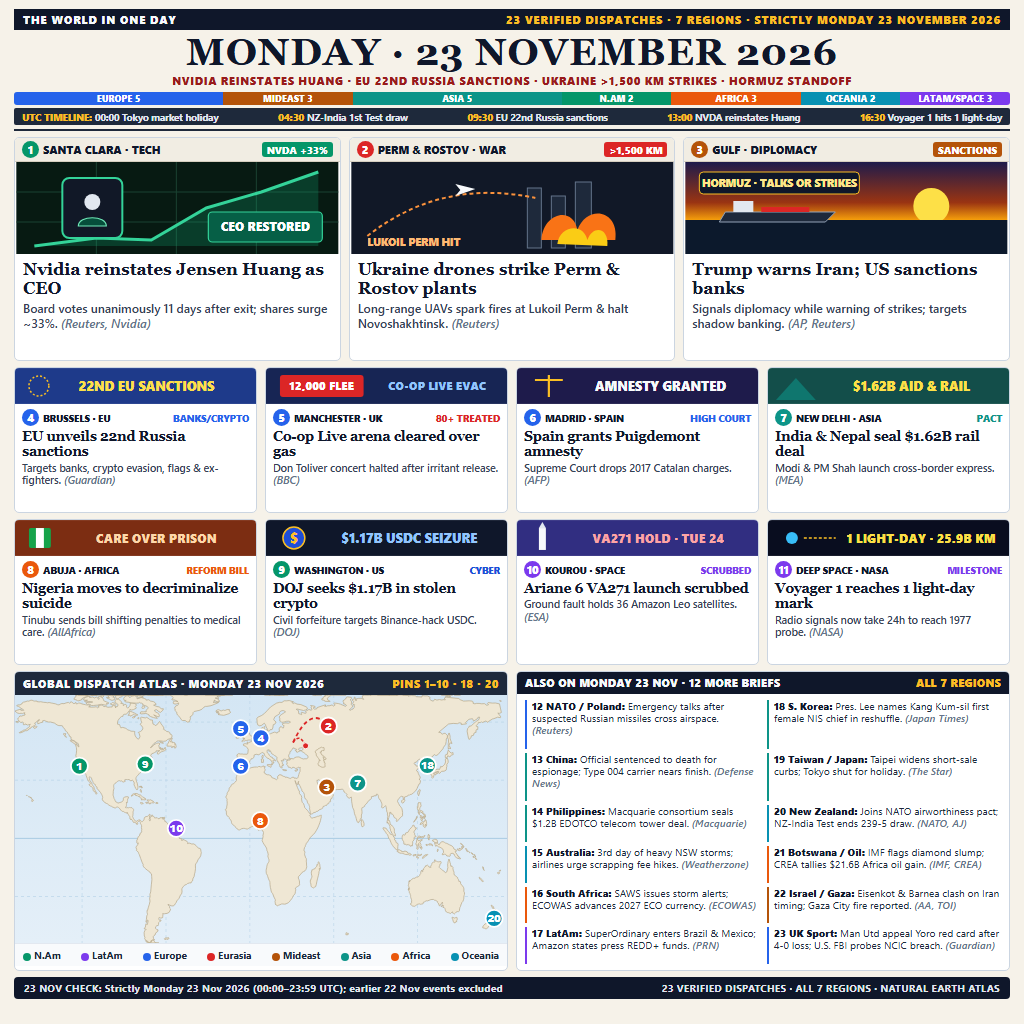
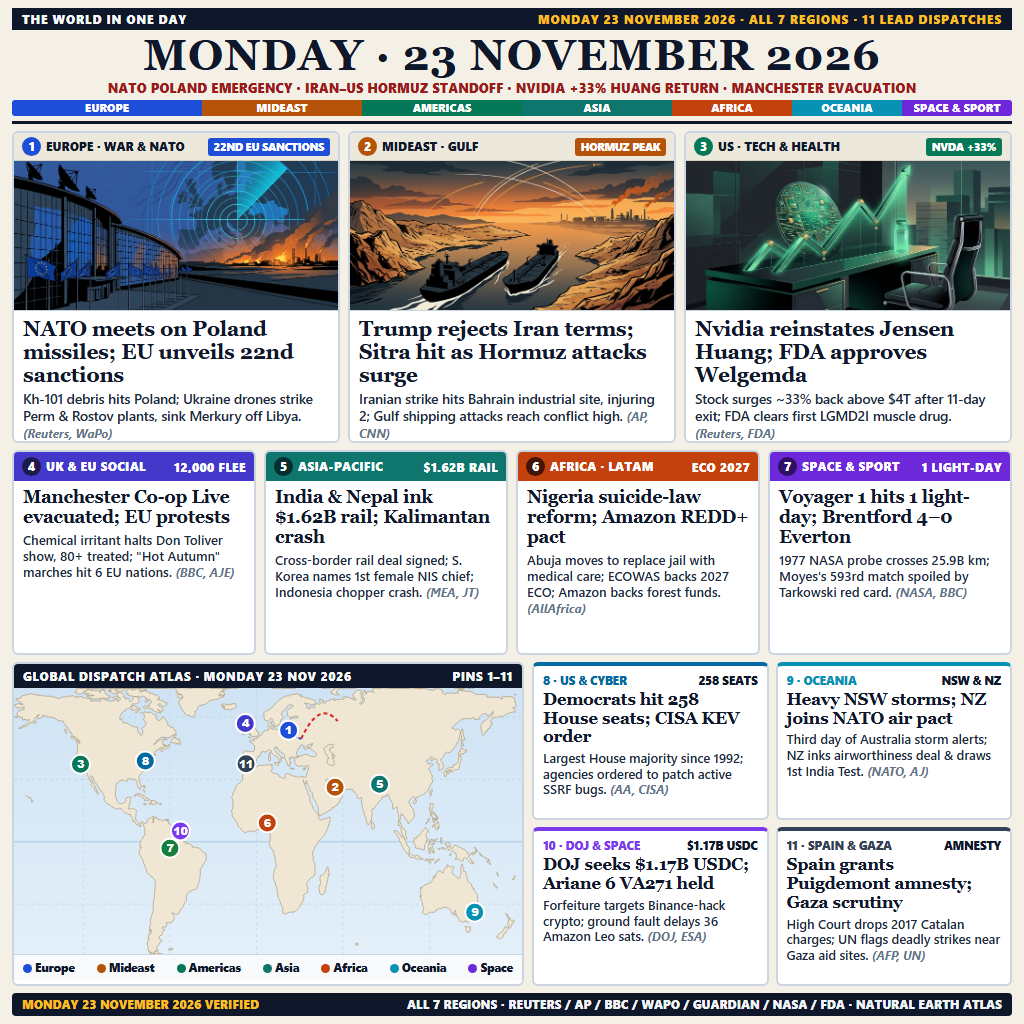
Upgrade 23 Nov 2026 to V5 bespoke-illustrated 300px-legible world atlas

diff --git a/main.ts b/main.ts
@@ -99,7 +99,7 @@ function emitDailyBriefing(): void {
   const targetFile = join(destinationDir, 'entry.png');
   writeFileSync(targetFile, assetBuffer);
   console.log(
-    `Published ${metrics.encoding.toUpperCase()} ${metrics.width}x${metrics.height} (${metrics.byteCount} B) -> ${targetFile}`,
+    `[2026-11-23 V5] Published ${metrics.encoding.toUpperCase()} ${metrics.width}x${metrics.height} (${metrics.byteCount} B) -> ${targetFile}`,
   );
 }
 

diff --git a/README.md b/README.md
@@ -4,7 +4,7 @@
 [![rank](https://make.fun/badge/news-image-20261123/smartmita/news-image-20261123/rank.svg)](https://make.fun/bounty/news-image-20261123/leaderboard?utm_source=github&utm_medium=readme&utm_campaign=news-image-20261123)
 [![reward](https://make.fun/badge/news-image-20261123/smartmita/news-image-20261123/reward.svg)](https://make.fun/bounty/news-image-20261123?utm_source=github&utm_medium=readme&utm_campaign=news-image-20261123)
 
-A 1024×1024 illustrated Monday, 23 November 2026 world news atlas covering 23 verified dispatches across all 7 global regions—featuring (1) Nvidia reinstating Jensen Huang as CEO amid a ~33% rally, (2) long-range Ukrainian drone strikes on Russia's Perm and Novoshakhtinsk refineries, (3) Trump warning Iran while sanctioning shadow banking, (4) the EU's 22nd Russia sanctions package, (5) Manchester Co-op Live's emergency evacuation, (6) Spain's Supreme Court granting amnesty to Carles Puigdemont, (7) India and Nepal sealing a $1.62B recovery and cross-border rail deal, (8) Nigeria moving to decriminalize attempted suicide, (9) the DOJ's $1.17B USDC forfeiture action, (10) Ariane 6 VA271's scrub in Kourou, (11) Voyager 1 reaching 1 light-day from Earth, and (12–23) briefs spanning NATO/Poland, South Korea, China, Taiwan/Japan, the Philippines, New Zealand, Australia, Botswana/ECOWAS/South Africa, Israel/Gaza, Latin America, and UK sport—paired with a Natural Earth 110m global dispatch atlas.
+A 1024×1024 illustrated Monday, 23 November 2026 world news atlas featuring bespoke editorial illustrations and a Natural Earth 110m global dispatch map across all 7 global regions—covering (1) NATO's emergency summit on Russian Kh-101 missiles in Poland, the EU's 22nd Russia sanctions package, and Ukraine drone strikes on Perm and Rostov refineries, (2) Trump rejecting Iran's ceasefire terms, Bahrain's Sitra industrial strike, and record Strait of Hormuz shipping attacks, (3) Nvidia reinstating Jensen Huang (+33% rally) and FDA approval of Welgemda, (4) Manchester Co-op Live's 12,000-fan evacuation and Europe's "Hot Autumn" protests, (5) India and Nepal's $1.62B rail pact, South Korea's NIS reshuffle, and Indonesia's Kalimantan crash, (6) Nigeria's suicide-law reform, ECOWAS 2027 currency talks, and Amazon REDD+ forest funds, (7) Voyager 1 reaching 1 light-day and Brentford's 4–0 win over Everton, plus (8–11) US Congress (258 Democratic seats) and CISA KEV order, Oceania storms and NZ–NATO pact, DOJ's $1.17B USDC forfeiture and Ariane 6 VA271 scrub, and Spain's Puigdemont amnesty and Gaza strikes.
 
 ## Run it
 
